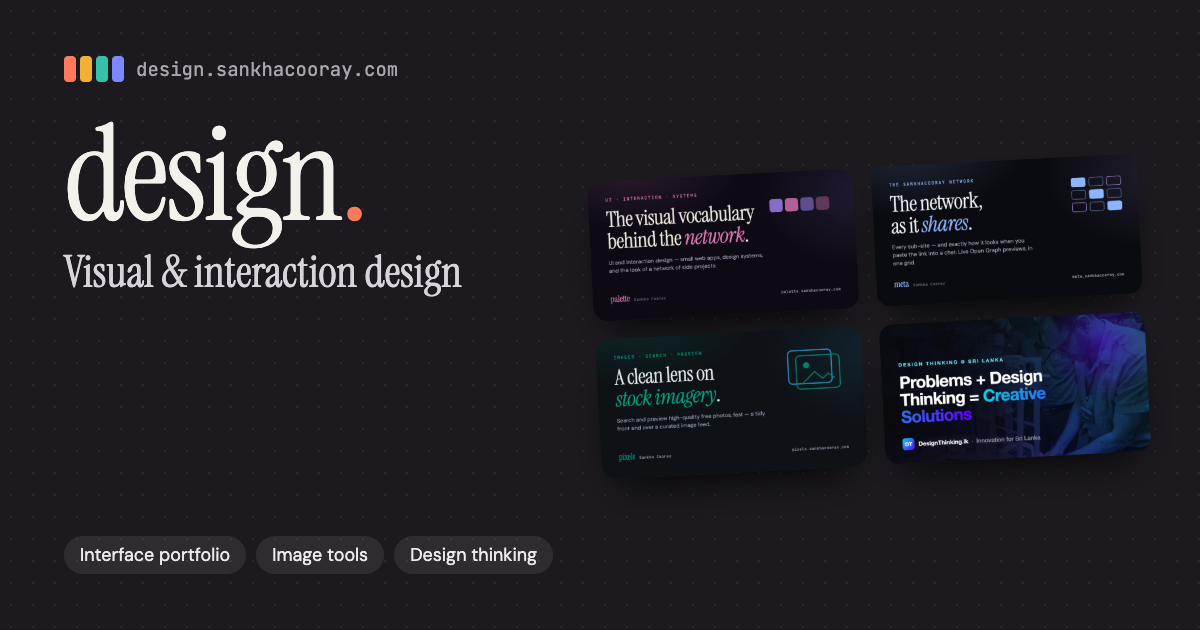
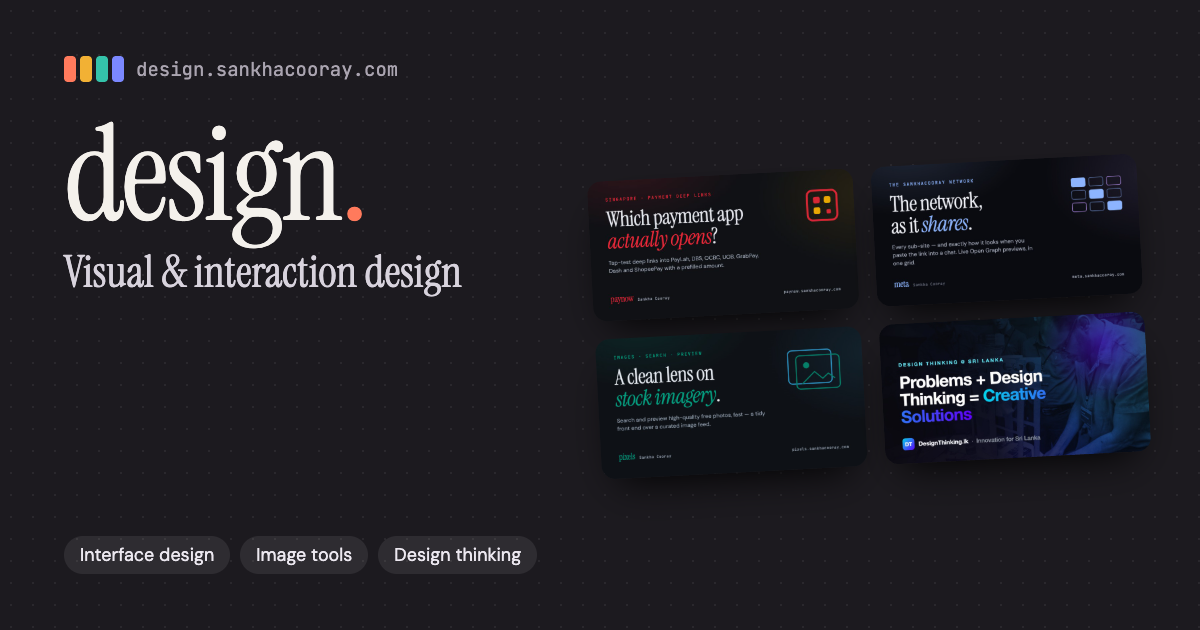
Replace palette card with PayNow; drop palette.sankhacooray.com from /api/og allowlist
palette.sankhacooray.com is being shut down. PayNow (paynow.sankhacooray.com) takes its place
in Interface design, with a live og image via /api/og and a local fallback thumb. Share image
re-rendered with the PayNow card (og.png?v=2); descriptions and role line updated.

Changed region(s): [[0.4933, 0.3016, 0.7092, 0.4825], [0.1233, 0.8746, 0.3083, 0.9048], [0.3392, 0.8746, 0.4625, 0.9048]]

diff --git a/public/index.html b/public/index.html
@@ -4,25 +4,25 @@
 <meta charset="UTF-8">
 <meta name="viewport" content="width=device-width, initial-scale=1.0, viewport-fit=cover">
 <title>design — Sankha Cooray · visual & interaction design</title>
-<meta name="description" content="Design projects by Sankha Cooray: the palette interface portfolio, meta share cards, Pixels image search, Helix Studio and ICE design-thinking programmes.">
+<meta name="description" content="Design projects by Sankha Cooray: PayNow deep-link tests, meta share cards, Pixels image search, Helix Studio and ICE design-thinking programmes.">
 <link rel="canonical" href="https://design.sankhacooray.com/">
 
 <meta property="og:type" content="website">
 <meta property="og:site_name" content="design · Sankha Cooray">
 <meta property="og:title" content="design — Sankha Cooray · visual &amp; interaction design">
-<meta property="og:description" content="Design projects by Sankha Cooray: the palette interface portfolio, meta share cards, Pixels image search, Helix Studio and ICE design-thinking programmes.">
+<meta property="og:description" content="Design projects by Sankha Cooray: PayNow deep-link tests, meta share cards, Pixels image search, Helix Studio and ICE design-thinking programmes.">
 <meta property="og:url" content="https://design.sankhacooray.com/">
-<meta property="og:image" content="https://design.sankhacooray.com/og.png?v=1">
+<meta property="og:image" content="https://design.sankhacooray.com/og.png?v=2">
 <meta property="og:image:type" content="image/png">
 <meta property="og:image:width" content="1200">
 <meta property="og:image:height" content="630">
-<meta property="og:image:alt" content="design.sankhacooray.com: visual and interaction design projects, with the share cards of palette, meta, Pixels and Helix Studio">
+<meta property="og:image:alt" content="design.sankhacooray.com: visual and interaction design projects, with the share cards of PayNow, meta, Pixels and Design Thinking @ SL">
 <meta property="og:locale" content="en_SG">
 <meta name="twitter:card" content="summary_large_image">
 <meta name="twitter:title" content="design — Sankha Cooray · visual &amp; interaction design">
-<meta name="twitter:description" content="Design projects by Sankha Cooray: the palette interface portfolio, meta share cards, Pixels image search, Helix Studio and ICE design-thinking programmes.">
-<meta name="twitter:image" content="https://design.sankhacooray.com/og.png?v=1">
-<meta name="twitter:image:alt" content="design.sankhacooray.com: visual and interaction design projects, with the share cards of palette, meta, Pixels and Helix Studio">
+<meta name="twitter:description" content="Design projects by Sankha Cooray: PayNow deep-link tests, meta share cards, Pixels image search, Helix Studio and ICE design-thinking programmes.">
+<meta name="twitter:image" content="https://design.sankhacooray.com/og.png?v=2">
+<meta name="twitter:image:alt" content="design.sankhacooray.com: visual and interaction design projects, with the share cards of PayNow, meta, Pixels and Design Thinking @ SL">
 
 <link rel="icon" type="image/svg+xml" href="/icon.svg">
 <link rel="icon" type="image/png" sizes="192x192" href="/icon-192.png">
@@ -255,7 +255,7 @@ h1 .dot{color:var(--accent)}
       <h1>design<span class="dot">.</span></h1>
       <p class="sub">Visual &amp; interaction design</p>
       <p class="lede">How things look and how they feel to use: a shared house style for small web apps, the share cards they travel as, tools for images and the laser, and design-thinking programmes in Sri Lanka.</p>
-      <p class="role-line">palette, meta, Pixels and Helix Studio are <b>mine</b>. I <b>co-own</b> the ICE programme sites and <b>contributed</b> to ICEHub.</p>
+      <p class="role-line">PayNow, meta, Pixels and Helix Studio are <b>mine</b>. I <b>co-own</b> the ICE programme sites and <b>contributed</b> to ICEHub.</p>
     </div>
     <div>
       <div class="hero-art">
@@ -308,7 +308,7 @@ h1 .dot{color:var(--accent)}
     </div>
   </div></section>
 
-  <section class="group row-group"><div class="wrap"><div class="row" style="grid-template-columns:2fr 2fr"><div class="subgroup" id="interface" style="--n:2"><div class="ghead"><div><div class="ctx">palette · meta</div><h2>Interface design</h2><p>Small web apps that share one house style, and the share cards that carry them into a chat.</p></div></div><div class="cards"><article class="card"><div class="art fallback has-thumb"><span class="yrs" title="Active years, from the project's commit history">2026</span><img class="local" src="/thumbs/palette.webp" srcset="/thumbs/palette-400.webp 400w, /thumbs/palette.webp 800w" sizes="(max-width: 600px) 92vw, 380px" alt="palette" loading="lazy" width="800" height="420"><img class="live-og" data-og="https://palette.sankhacooray.com/" alt="" width="1200" height="630"></div><div class="cbody"><div class="ctop"><h3>palette</h3><span class="role mine">Mine</span></div><p>A working portfolio of interface design: live apps, the house style and this family&#x27;s palettes.</p><div class="cfoot"><span class="plats"><svg class="pi pi-web" viewBox="0 0 16 16" role="img" aria-label="Web"><title>Web</title><g fill="none" stroke="currentColor" stroke-width="1.2"><circle cx="8" cy="8" r="6"/><path d="M2 8h12M8 2c1.7 1.8 2.5 3.8 2.5 6S9.7 12.2 8 14M8 2C6.3 3.8 5.5 5.8 5.5 8s.8 4.2 2.5 6"/></g></svg></span><span class="org">sankhacooray</span><a class="open" href="https://palette.sankhacooray.com/" target="_blank" rel="noopener">Open</a></div></div></article><article class="card"><div class="art fallback has-thumb"><span class="yrs" title="Active years, from the project's commit history">2026</span><img class="local" src="/thumbs/meta.webp" srcset="/thumbs/meta-400.webp 400w, /thumbs/meta.webp 800w" sizes="(max-width: 600px) 92vw, 380px" alt="meta" loading="lazy" width="800" height="420"><img class="live-og" data-og="https://meta.sankhacooray.com/" alt="" width="1200" height="630"></div><div class="cbody"><div class="ctop"><h3>meta</h3><span class="role mine">Mine</span></div><p>Every sankhacooray.com sub-site, shown as the share card you see when you paste its link.</p><div class="cfoot"><span class="plats"><svg class="pi pi-web" viewBox="0 0 16 16" role="img" aria-label="Web"><title>Web</title><g fill="none" stroke="currentColor" stroke-width="1.2"><circle cx="8" cy="8" r="6"/><path d="M2 8h12M8 2c1.7 1.8 2.5 3.8 2.5 6S9.7 12.2 8 14M8 2C6.3 3.8 5.5 5.8 5.5 8s.8 4.2 2.5 6"/></g></svg></span><span class="org">sankhacooray</span><a class="open" href="https://meta.sankhacooray.com/" target="_blank" rel="noopener">Open</a></div></div></article></div></div><div class="subgroup" id="tools" style="--n:2"><div class="ghead"><div><div class="ctx">Pixels · Helix Studio</div><h2>Tools for visual work</h2><p>Stock imagery searched and cropped in batches, and a laser layout you can see before it burns.</p></div></div><div class="cards"><article class="card"><div class="art fallback has-thumb"><span class="yrs" title="Active years, from the project's commit history">2026</span><img class="local" src="/thumbs/pixels.webp" srcset="/thumbs/pixels-400.webp 400w, /thumbs/pixels.webp 800w" sizes="(max-width: 600px) 92vw, 380px" alt="Pixels" loading="lazy" width="800" height="420"><img class="live-og" data-og="https://pixels.sankhacooray.com/" alt="" width="1200" height="630"></div><div class="cbody"><div class="ctop"><h3>Pixels</h3><span class="role mine">Mine</span></div><p>Search free stock photos and videos, then batch-crop them into square puzzle tiles.</p><div class="cfoot"><span class="plats"><svg class="pi pi-web" viewBox="0 0 16 16" role="img" aria-label="Web"><title>Web</title><g fill="none" stroke="currentColor" stroke-width="1.2"><circle cx="8" cy="8" r="6"/><path d="M2 8h12M8 2c1.7 1.8 2.5 3.8 2.5 6S9.7 12.2 8 14M8 2C6.3 3.8 5.5 5.8 5.5 8s.8 4.2 2.5 6"/></g></svg></span><span class="org">sankhacooray</span><button class="parts" type="button" aria-label="2 parts: Pixels, Pexels proxy"><svg viewBox="0 0 24 24" fill="none" stroke="currentColor" stroke-width="1.8" stroke-linejoin="round"><path d="M12 3l9 5-9 5-9-5z"/><path d="M3 13l9 5 9-5"/></svg>2 parts</button><div class="pop" role="tooltip"><b>Built from</b><ul><li>Pixels<span>Public web client with pluggable connectors · <code>pixels-sankhacooray-com</code></span></li><li>Pexels proxy<span>Apps Script service that keeps the API key · <code>pixels-sankhacooray-appscript</code></span></li></ul></div><a class="open" href="https://pixels.sankhacooray.com/" target="_blank" rel="noopener">Open</a></div></div></article><article class="card"><div class="art fallback has-thumb"><span class="yrs" title="Active years, from the project's commit history">2026</span><img class="local" src="/thumbs/helix.webp" srcset="/thumbs/helix-400.webp 400w, /thumbs/helix.webp 800w" sizes="(max-width: 600px) 92vw, 380px" alt="Helix Studio" loading="lazy" width="800" height="420"><img class="live-og" data-og="https://helix.sankhacooray.com/" alt="" width="1200" height="630"></div><div class="cbody"><div class="ctop"><h3>Helix Studio</h3><span class="role mine">Mine</span></div><p>Lay out PDFs on your stock, preview the burn on real material, then send it to the laser.</p><div class="cfoot"><span class="plats"><svg class="pi pi-web" viewBox="0 0 16 16" role="img" aria-label="Web"><title>Web</title><g fill="none" stroke="currentColor" stroke-width="1.2"><circle cx="8" cy="8" r="6"/><path d="M2 8h12M8 2c1.7 1.8 2.5 3.8 2.5 6S9.7 12.2 8 14M8 2C6.3 3.8 5.5 5.8 5.5 8s.8 4.2 2.5 6"/></g></svg></span><span class="org">sclab</span><button class="parts" type="button" aria-label="2 parts: Helix Studio, Helix site"><svg viewBox="0 0 24 24" fill="none" stroke="currentColor" stroke-width="1.8" stroke-linejoin="round"><path d="M12 3l9 5-9 5-9-5z"/><path d="M3 13l9 5 9-5"/></svg>2 parts</button><div class="pop" role="tooltip"><b>Built from</b><ul><li>Helix Studio<span>Local web app with a Python server · <code>helix-studio-app</code></span></li><li>Helix site<span>Product site on a Cloudflare Worker · <code>helix-sankhacooray-com</code></span></li></ul></div><a class="open" href="https://helix.sankhacooray.com/" target="_blank" rel="noopener">Open</a></div></div></article></div></div></div></div>
+  <section class="group row-group"><div class="wrap"><div class="row" style="grid-template-columns:2fr 2fr"><div class="subgroup" id="interface" style="--n:2"><div class="ghead"><div><div class="ctx">PayNow · meta</div><h2>Interface design</h2><p>Small web apps that share one house style, and the share cards that carry them into a chat.</p></div></div><div class="cards"><article class="card"><div class="art fallback has-thumb"><span class="yrs" title="Active years, from the project's commit history">2026</span><img class="local" src="/thumbs/paynow.webp" srcset="/thumbs/paynow-400.webp 400w, /thumbs/paynow.webp 800w" sizes="(max-width: 600px) 92vw, 380px" alt="PayNow" loading="lazy" width="800" height="420"><img class="live-og" data-og="https://paynow.sankhacooray.com/" alt="" width="1200" height="630"></div><div class="cbody"><div class="ctop"><h3>PayNow</h3><span class="role mine">Mine</span></div><p>Tap-test which Singapore payment-app deep links really open on your phone.</p><div class="cfoot"><span class="plats"><svg class="pi pi-web" viewBox="0 0 16 16" role="img" aria-label="Web"><title>Web</title><g fill="none" stroke="currentColor" stroke-width="1.2"><circle cx="8" cy="8" r="6"/><path d="M2 8h12M8 2c1.7 1.8 2.5 3.8 2.5 6S9.7 12.2 8 14M8 2C6.3 3.8 5.5 5.8 5.5 8s.8 4.2 2.5 6"/></g></svg></span><span class="org">sankhacooray</span><a class="open" href="https://paynow.sankhacooray.com/" target="_blank" rel="noopener">Open</a></div></div></article><article class="card"><div class="art fallback has-thumb"><span class="yrs" title="Active years, from the project's commit history">2026</span><img class="local" src="/thumbs/meta.webp" srcset="/thumbs/meta-400.webp 400w, /thumbs/meta.webp 800w" sizes="(max-width: 600px) 92vw, 380px" alt="meta" loading="lazy" width="800" height="420"><img class="live-og" data-og="https://meta.sankhacooray.com/" alt="" width="1200" height="630"></div><div class="cbody"><div class="ctop"><h3>meta</h3><span class="role mine">Mine</span></div><p>Every sankhacooray.com sub-site, shown as the share card you see when you paste its link.</p><div class="cfoot"><span class="plats"><svg class="pi pi-web" viewBox="0 0 16 16" role="img" aria-label="Web"><title>Web</title><g fill="none" stroke="currentColor" stroke-width="1.2"><circle cx="8" cy="8" r="6"/><path d="M2 8h12M8 2c1.7 1.8 2.5 3.8 2.5 6S9.7 12.2 8 14M8 2C6.3 3.8 5.5 5.8 5.5 8s.8 4.2 2.5 6"/></g></svg></span><span class="org">sankhacooray</span><a class="open" href="https://meta.sankhacooray.com/" target="_blank" rel="noopener">Open</a></div></div></article></div></div><div class="subgroup" id="tools" style="--n:2"><div class="ghead"><div><div class="ctx">Pixels · Helix Studio</div><h2>Tools for visual work</h2><p>Stock imagery searched and cropped in batches, and a laser layout you can see before it burns.</p></div></div><div class="cards"><article class="card"><div class="art fallback has-thumb"><span class="yrs" title="Active years, from the project's commit history">2026</span><img class="local" src="/thumbs/pixels.webp" srcset="/thumbs/pixels-400.webp 400w, /thumbs/pixels.webp 800w" sizes="(max-width: 600px) 92vw, 380px" alt="Pixels" loading="lazy" width="800" height="420"><img class="live-og" data-og="https://pixels.sankhacooray.com/" alt="" width="1200" height="630"></div><div class="cbody"><div class="ctop"><h3>Pixels</h3><span class="role mine">Mine</span></div><p>Search free stock photos and videos, then batch-crop them into square puzzle tiles.</p><div class="cfoot"><span class="plats"><svg class="pi pi-web" viewBox="0 0 16 16" role="img" aria-label="Web"><title>Web</title><g fill="none" stroke="currentColor" stroke-width="1.2"><circle cx="8" cy="8" r="6"/><path d="M2 8h12M8 2c1.7 1.8 2.5 3.8 2.5 6S9.7 12.2 8 14M8 2C6.3 3.8 5.5 5.8 5.5 8s.8 4.2 2.5 6"/></g></svg></span><span class="org">sankhacooray</span><button class="parts" type="button" aria-label="2 parts: Pixels, Pexels proxy"><svg viewBox="0 0 24 24" fill="none" stroke="currentColor" stroke-width="1.8" stroke-linejoin="round"><path d="M12 3l9 5-9 5-9-5z"/><path d="M3 13l9 5 9-5"/></svg>2 parts</button><div class="pop" role="tooltip"><b>Built from</b><ul><li>Pixels<span>Public web client with pluggable connectors · <code>pixels-sankhacooray-com</code></span></li><li>Pexels proxy<span>Apps Script service that keeps the API key · <code>pixels-sankhacooray-appscript</code></span></li></ul></div><a class="open" href="https://pixels.sankhacooray.com/" target="_blank" rel="noopener">Open</a></div></div></article><article class="card"><div class="art fallback has-thumb"><span class="yrs" title="Active years, from the project's commit history">2026</span><img class="local" src="/thumbs/helix.webp" srcset="/thumbs/helix-400.webp 400w, /thumbs/helix.webp 800w" sizes="(max-width: 600px) 92vw, 380px" alt="Helix Studio" loading="lazy" width="800" height="420"><img class="live-og" data-og="https://helix.sankhacooray.com/" alt="" width="1200" height="630"></div><div class="cbody"><div class="ctop"><h3>Helix Studio</h3><span class="role mine">Mine</span></div><p>Lay out PDFs on your stock, preview the burn on real material, then send it to the laser.</p><div class="cfoot"><span class="plats"><svg class="pi pi-web" viewBox="0 0 16 16" role="img" aria-label="Web"><title>Web</title><g fill="none" stroke="currentColor" stroke-width="1.2"><circle cx="8" cy="8" r="6"/><path d="M2 8h12M8 2c1.7 1.8 2.5 3.8 2.5 6S9.7 12.2 8 14M8 2C6.3 3.8 5.5 5.8 5.5 8s.8 4.2 2.5 6"/></g></svg></span><span class="org">sclab</span><button class="parts" type="button" aria-label="2 parts: Helix Studio, Helix site"><svg viewBox="0 0 24 24" fill="none" stroke="currentColor" stroke-width="1.8" stroke-linejoin="round"><path d="M12 3l9 5-9 5-9-5z"/><path d="M3 13l9 5 9-5"/></svg>2 parts</button><div class="pop" role="tooltip"><b>Built from</b><ul><li>Helix Studio<span>Local web app with a Python server · <code>helix-studio-app</code></span></li><li>Helix site<span>Product site on a Cloudflare Worker · <code>helix-sankhacooray-com</code></span></li></ul></div><a class="open" href="https://helix.sankhacooray.com/" target="_blank" rel="noopener">Open</a></div></div></article></div></div></div></div>
   </section>
   <section class="group last" id="thinking"><div class="wrap">
     <div class="ghead"><div><div class="ctx">ICE · Sri Lanka</div><h2>Design thinking</h2><p>ICE (Innovation, Creativity &amp; Entrepreneurship) runs design-thinking programmes for students in Sri Lanka.</p></div></div>

diff --git a/template.html b/template.html
@@ -12,17 +12,17 @@
 <meta property="og:title" content="design — Sankha Cooray · visual &amp; interaction design">
 <meta property="og:description" content="{{DESC}}">
 <meta property="og:url" content="https://design.sankhacooray.com/">
-<meta property="og:image" content="https://design.sankhacooray.com/og.png?v=1">
+<meta property="og:image" content="https://design.sankhacooray.com/og.png?v=2">
 <meta property="og:image:type" content="image/png">
 <meta property="og:image:width" content="1200">
 <meta property="og:image:height" content="630">
-<meta property="og:image:alt" content="design.sankhacooray.com: visual and interaction design projects, with the share cards of palette, meta, Pixels and Helix Studio">
+<meta property="og:image:alt" content="design.sankhacooray.com: visual and interaction design projects, with the share cards of PayNow, meta, Pixels and Design Thinking @ SL">
 <meta property="og:locale" content="en_SG">
 <meta name="twitter:card" content="summary_large_image">
 <meta name="twitter:title" content="design — Sankha Cooray · visual &amp; interaction design">
 <meta name="twitter:description" content="{{DESC}}">
-<meta name="twitter:image" content="https://design.sankhacooray.com/og.png?v=1">
-<meta name="twitter:image:alt" content="design.sankhacooray.com: visual and interaction design projects, with the share cards of palette, meta, Pixels and Helix Studio">
+<meta name="twitter:image" content="https://design.sankhacooray.com/og.png?v=2">
+<meta name="twitter:image:alt" content="design.sankhacooray.com: visual and interaction design projects, with the share cards of PayNow, meta, Pixels and Design Thinking @ SL">
 
 <link rel="icon" type="image/svg+xml" href="/icon.svg">
 <link rel="icon" type="image/png" sizes="192x192" href="/icon-192.png">
@@ -255,7 +255,7 @@ h1 .dot{color:var(--accent)}
       <h1>design<span class="dot">.</span></h1>
       <p class="sub">Visual &amp; interaction design</p>
       <p class="lede">How things look and how they feel to use: a shared house style for small web apps, the share cards they travel as, tools for images and the laser, and design-thinking programmes in Sri Lanka.</p>
-      <p class="role-line">palette, meta, Pixels and Helix Studio are <b>mine</b>. I <b>co-own</b> the ICE programme sites and <b>contributed</b> to ICEHub.</p>
+      <p class="role-line">PayNow, meta, Pixels and Helix Studio are <b>mine</b>. I <b>co-own</b> the ICE programme sites and <b>contributed</b> to ICEHub.</p>
     </div>
     <div>
       <div class="hero-art">

diff --git a/og/og.html b/og/og.html
@@ -21,10 +21,10 @@ h1 i{font-style:normal;color:#ff7a5c}
   <div class="dom"><span class="sw"><b style="background:#ff7a5c"></b><b style="background:#f2b134"></b><b style="background:#34c3aa"></b><b style="background:#7b88ff"></b></span>design.sankhacooray.com</div>
   <h1>design<i>.</i></h1>
   <div class="sub">Visual &amp; interaction design</div>
-  <div class="tags"><span>Interface portfolio</span><span>Image tools</span><span>Design thinking</span></div>
+  <div class="tags"><span>Interface design</span><span>Image tools</span><span>Design thinking</span></div>
 </div>
 <div class="r">
-  <figure><img src="../public/thumbs/palette.jpg"></figure>
+  <figure><img src="../public/thumbs/paynow.jpg"></figure>
   <figure><img src="../public/thumbs/meta.jpg"></figure>
   <figure><img src="../public/thumbs/pixels.jpg"></figure>
   <figure><img src="../public/thumbs/designthinking.jpg"></figure>

diff --git a/src/worker.js b/src/worker.js
@@ -8,7 +8,7 @@
 //   its fallback art.
 
 const ALLOWED_HOSTS = new Set([
-  "palette.sankhacooray.com",
+  "paynow.sankhacooray.com",
   "meta.sankhacooray.com",
   "pixels.sankhacooray.com",
   "helix.sankhacooray.com",

diff --git a/build.py b/build.py
@@ -129,7 +129,7 @@ for g in data["groups"]:
 allp = [p for g in data["groups"] for p in g["projects"]]
 live = sum(1 for p in allp if p.get("url"))
 
-desc = ("Design projects by Sankha Cooray: the palette interface portfolio, meta share cards, Pixels image search, "
+desc = ("Design projects by Sankha Cooray: PayNow deep-link tests, meta share cards, Pixels image search, "
         "Helix Studio and ICE design-thinking programmes.")
 assert 120 <= len(desc) <= 160, len(desc)
 

diff --git a/README.md b/README.md
@@ -1,7 +1,7 @@
 # design
 
 **[design.sankhacooray.com](https://design.sankhacooray.com)** — the visual & interaction design hub in the
-sankhacooray.com network: the palette interface portfolio, meta share-card gallery, Pixels image search,
+sankhacooray.com network: the PayNow deep-link sandbox, meta share-card gallery, Pixels image search,
 Helix Studio, and the ICE design-thinking programme sites.
 
 Served by a Cloudflare Worker (`design-sankhacooray`): static assets from `public/`, plus `src/worker.js`, whose
